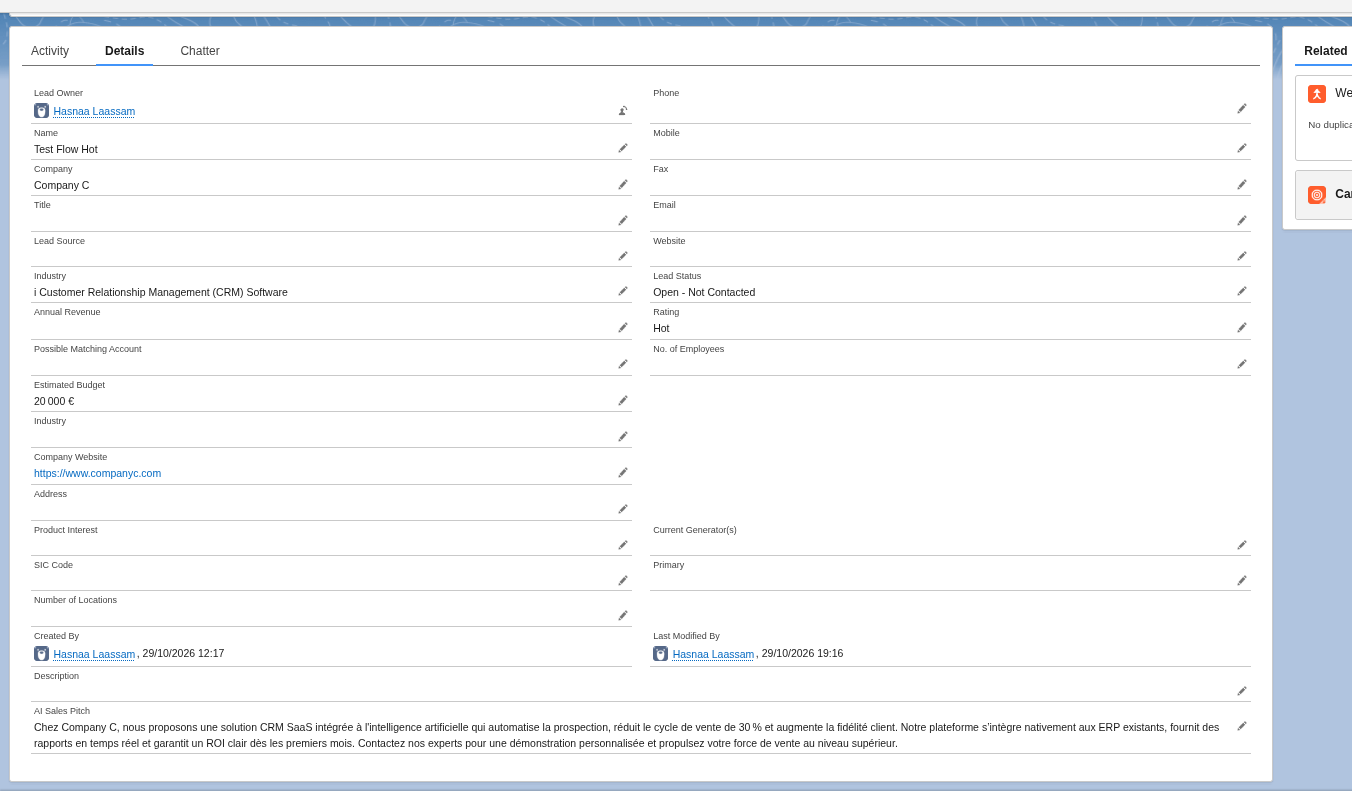
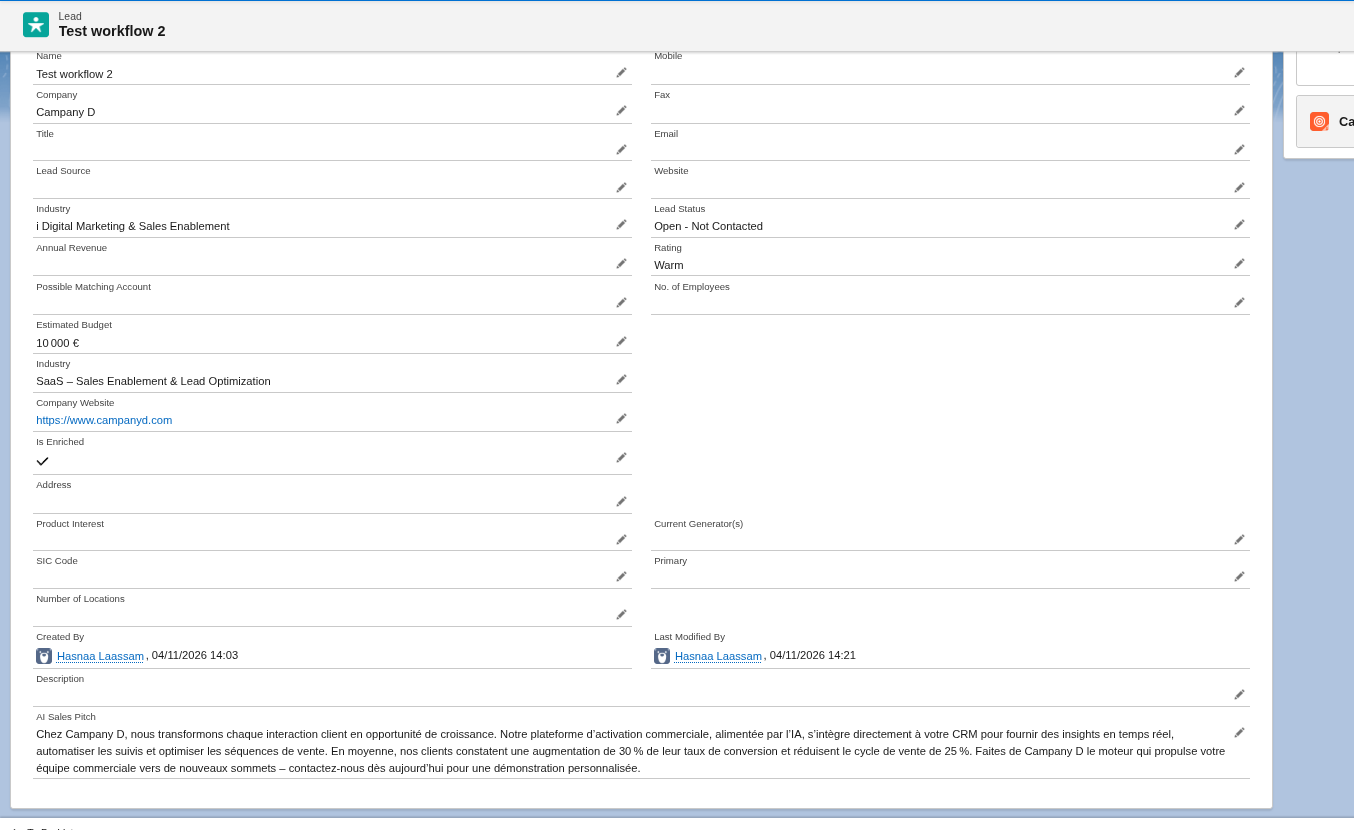
docs: comprehensive update of README and workflow architecture
- Add detailed technical architecture section highlighting the ETL pipeline
- Document the use of the custom  field to bypass Picklist limitations
- Explain batch processing, rate limit management, and edge case handling (converted leads)
- Add placeholders for workflow, Salesforce record, and Dashboard screenshots
- Update workflow instructions and prerequisites

diff --git a/README.md b/README.md
@@ -1,4 +1,4 @@
-# salesforce-ai-enrichment-pipeline
+# 🚀 Salesforce AI Enrichment Pipeline
 
 ## 📖 Contexte métier
 Les équipes commerciales des PME passent un temps considérable à rechercher manuellement des informations sur les leads entrants (secteur d'activité, site web, etc.) avant de pouvoir les qualifier et les contacter. Ce processus est lent, fastidieux et source d'erreurs.
@@ -6,20 +6,20 @@ Les équipes commerciales des PME passent un temps considérable à rechercher m
 ## 💡 La solution
 J'ai conçu et développé un pipeline d'enrichissement automatisé (ETL) qui connecte **Salesforce**, **n8n** et un modèle d'IA générative (**API Groq / Llama 3**). 
 
-Dès qu'un lot de Leads est ciblé, le système :
-1. **Extrait** les données des Leads depuis Salesforce.
-2. **Envoie** le nom de l'entreprise à l'IA pour obtenir son secteur d'activité, son site web et générer un pitch de vente personnalisé.
-3. **Nettoie et Parse** la réponse JSON de l'IA (via un script JavaScript).
-4. **Met à jour** automatiquement les champs personnalisés du Lead dans Salesforce.
+Le système s'exécute automatiquement à intervalles réguliers (Schedule Trigger) pour :
+1. **Extraire** les leads non enrichis (`Is Enriched = false`) et non convertis (`IsConverted = false`) depuis Salesforce.
+2. **Envoyer** le nom de l'entreprise à l'IA pour obtenir son secteur d'activité, son site web et générer un pitch de vente personnalisé.
+3. **Nettoyer et Parser** la réponse JSON de l'IA via un script JavaScript.
+4. **Mettre à jour** automatiquement les champs du Lead dans Salesforce et le marquer comme traité.
 
 ## 🛠 Stack technique
 *   **CRM** : Salesforce (API REST, OAuth 2.0, SOQL)
-*   **Orchestration** : n8n (Traitement par lots / Batch Processing)
+*   **Orchestration** : n8n (Schedule Trigger, Traitement par lots / Batch Processing)
 *   **Intelligence Artificielle** : Groq API (Modèle Llama 3 / GPT-OSS)
 *   **Langage** : JavaScript (pour le parsing et la gestion des données)
 
 ## 🏗 Architecture du Workflow
-Le workflow est conçu pour être résilient et respecter les limites d'API (Governor Limits).
+Le workflow est conçu pour être résilient, automatique et respecter les limites d'API (Governor Limits).
 
 <div align="center">
 
@@ -27,22 +27,38 @@ Le workflow est conçu pour être résilient et respecter les limites d'API (Gov
 
 </div>
 
-### Points techniques clés :
-*   **Traitement par lots (Batch Processing)** : Utilisation du nœud `Loop Over Items` couplé à une limite (`Limit = 10`) sur la requête Salesforce `Get Many` pour traiter les leads par paquets, évitant ainsi de surcharger l'API.
+### 💡 Points techniques clés (Points forts pour les recruteurs) :
+*   **Traitement par lots (Batch Processing)** : Utilisation d'une boucle (`Loop Over Items`) couplée à une limite (`Limit = 10`) sur la requête Salesforce pour traiter les leads par paquets, évitant de surcharger l'API.
 *   **Gestion du Rate Limiting** : Intégration d'un nœud `Wait` (5 secondes) dans la boucle pour respecter les limites de tokens par minute (TPM) de l'API IA gratuite.
-*   **Data Cleansing** : Un nœud `Code (JavaScript)` nettoie les balises Markdown renvoyées par l'IA et transforme le texte brut en un objet JSON exploitable par Salesforce.
+*   **Gestion des cas limites (Edge Cases)** : Le workflow exclut automatiquement les leads déjà convertis (qui sont en lecture seule dans Salesforce) pour éviter les erreurs de mise à jour.
+*   **Data Cleansing** : Un nœud `Code (JavaScript)` nettoie les balises Markdown renvoyées par l'IA et transforme le texte brut en un objet JSON exploitable.
+*   **Automatisation complète** : Déclenchement planifié (Schedule Trigger) pour une exécution autonome.
 
 ## 📸 Démonstration
+
+### 1. Les Données enrichies dans Salesforce
+Les champs `Industry`, `Company Website`, et `AI Sales Pitch` sont automatiquement remplis, et le champ `Is Enriched` passe à `True`.
+
 <div align="center">
 
-   ![Workflow](Images/lead-sf.png)
+   ![Lead détail](Images/lead-sf.png)
+
+</div>
+
+### 2. Le Dashboard de suivi (Business Value)
+Ce dashboard permet aux équipes commerciales de visualiser l'impact de l'automatisation sur la qualité des leads et le volume de leads traités par l'IA.
+
+<div align="center">
+
+   ![Dashboard](Images/dashboard.png)
 
 </div>
 
 ## 🚀 Comment importer et utiliser ce workflow
-1. Téléchargez le fichier `workflow.json` présent dans ce dépôt.
+1. Téléchargez le fichier `salesforce-ai-enrichment-pipeline.json` présent dans ce dépôt.
 2. Dans votre instance n8n, cliquez sur `Import from File` et sélectionnez le fichier.
 3. Configurez vos identifiants :
    *   **Salesforce** : Ajoutez vos identifiants OAuth (Client ID, Client Secret).
    *   **IA** : Ajoutez votre clé API Groq (ou OpenAI).
-4. Ajustez les limites (nœud `Get Many`) et les temps d'attente (nœud `Wait`) selon votre utilisation.
+4. Ajustez les limites (`Get Many`) et les temps d'attente (`Wait`) selon votre utilisation.
+5. Activez le workflow (Publish).
